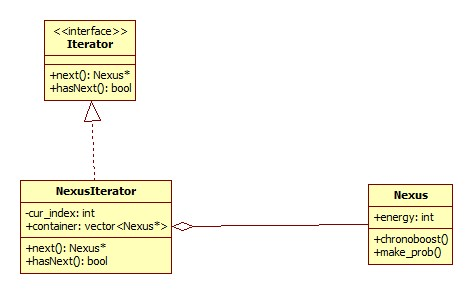
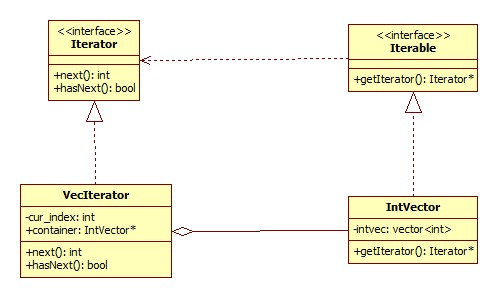
iterator zmieniony i jest git :cactus:

diff --git a/Iterator/main.cpp b/Iterator/main.cpp
@@ -3,76 +3,80 @@
 
 using namespace std;
 
-class Nexus
-{
-public:
-    int energy;
-    void chronoboost()
-    {
-        if (energy < 50)
-        {
-            cout << "You require more energy.\n";
-        }
-        else
-        {
-            cout << "Used chronoboost.\n";
-            energy -= 50;
-        }
-    }
-    void make_prob()
-    {
-        cout << "Probe created.\n";
-    }
-};
-
 class Iterator
 {
 public:
-    virtual Nexus *next() = 0;
+    virtual int next() = 0;
     virtual bool hasNext() = 0;
 };
 
-class NexusIterator : public Iterator
+class Iterable
 {
 public:
-    Nexus *next()
-    {
-        ++cur_index;
-        return container[cur_index];
-    }
-    bool hasNext()
-    {
-        if (container.size() - 1 == cur_index)
-        {
-            return false;
-        }
-        return true;
-    }
-    vector<Nexus *> container;
+    virtual Iterator *getIterator() = 0;
+};
+
+class IntVector : public Iterable
+{
+public:
+    Iterator *getIterator();
+    vector<int> intvec;
+};
+
+class VecIterator : public Iterator
+{
+public:
+    VecIterator(IntVector *container);
+    IntVector *container;
+    int next();
+    bool hasNext();
 
 private:
-    int cur_index = -1;
+    int cur_index = 0;
 };
+
+Iterator *IntVector::getIterator()
+{
+    return new VecIterator(this);
+}
+
+int VecIterator::next()
+{
+    if (this->hasNext())
+    {
+        return this->container->intvec[this->cur_index++];
+    }
+    else
+    {
+        return -1;
+    }
+}
+
+bool VecIterator::hasNext()
+{
+    if (this->cur_index == this->container->intvec.size())
+        return false;
+    else
+        return true;
+}
+
+VecIterator::VecIterator(IntVector *container)
+{
+    this->container = container;
+}
 
 int main()
 {
-    Nexus *n1 = new Nexus();
-    n1->energy = 100;
-    Nexus *n2 = new Nexus();
-    n2->energy = 20;
-    Nexus *n3 = new Nexus();
-    n3->energy = 200;
+    IntVector vec;
+    vec.intvec.push_back(1);
+    vec.intvec.push_back(4);
+    vec.intvec.push_back(2);
 
-    NexusIterator iter;
-    iter.container.push_back(n1);
-    iter.container.push_back(n2);
-    iter.container.push_back(n3);
-
-    iter.next()->chronoboost();
-    iter.next()->chronoboost();
-    iter.next()->make_prob();
-
-    cout << iter.hasNext() << '\n';
+    Iterator *iter = vec.getIterator();
+    while (iter->hasNext())
+    {
+        cout << iter->next() << '\n';
+    }
 
     return 0;
 }
